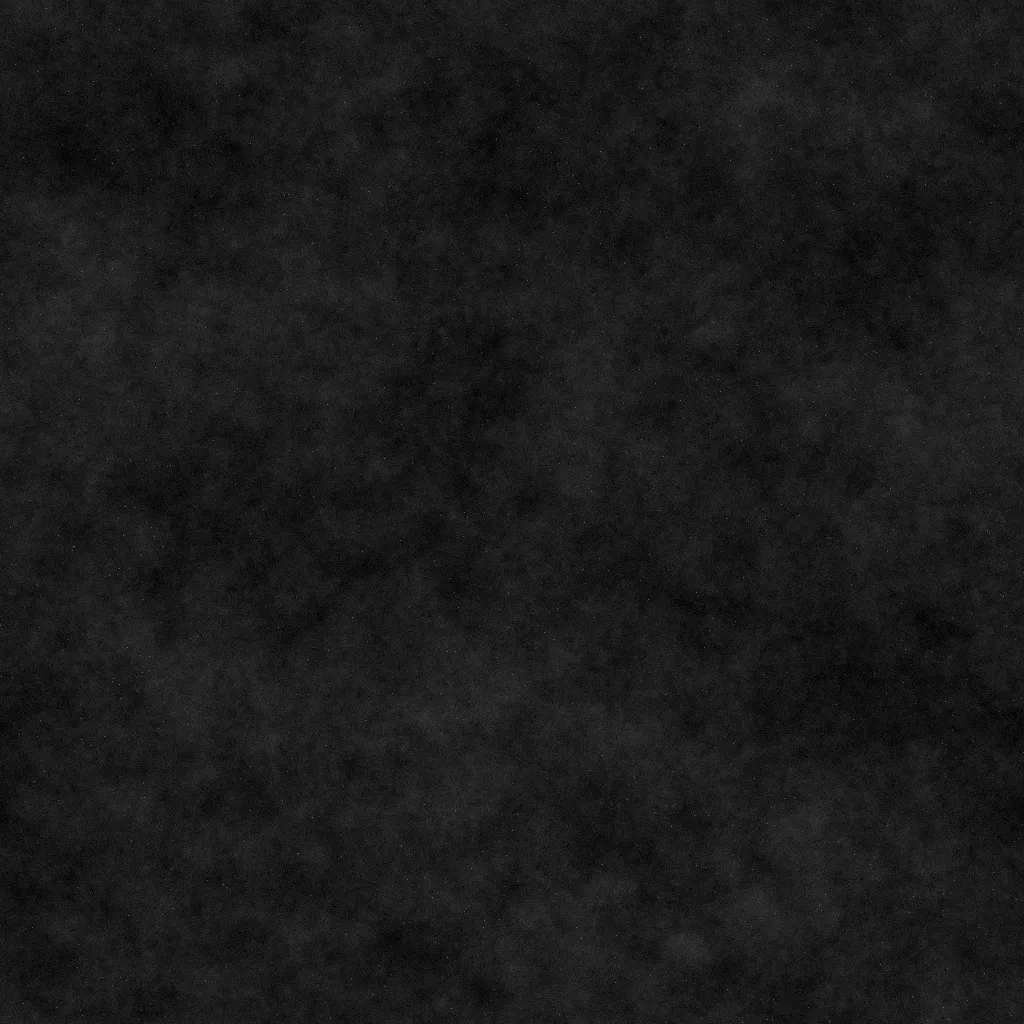
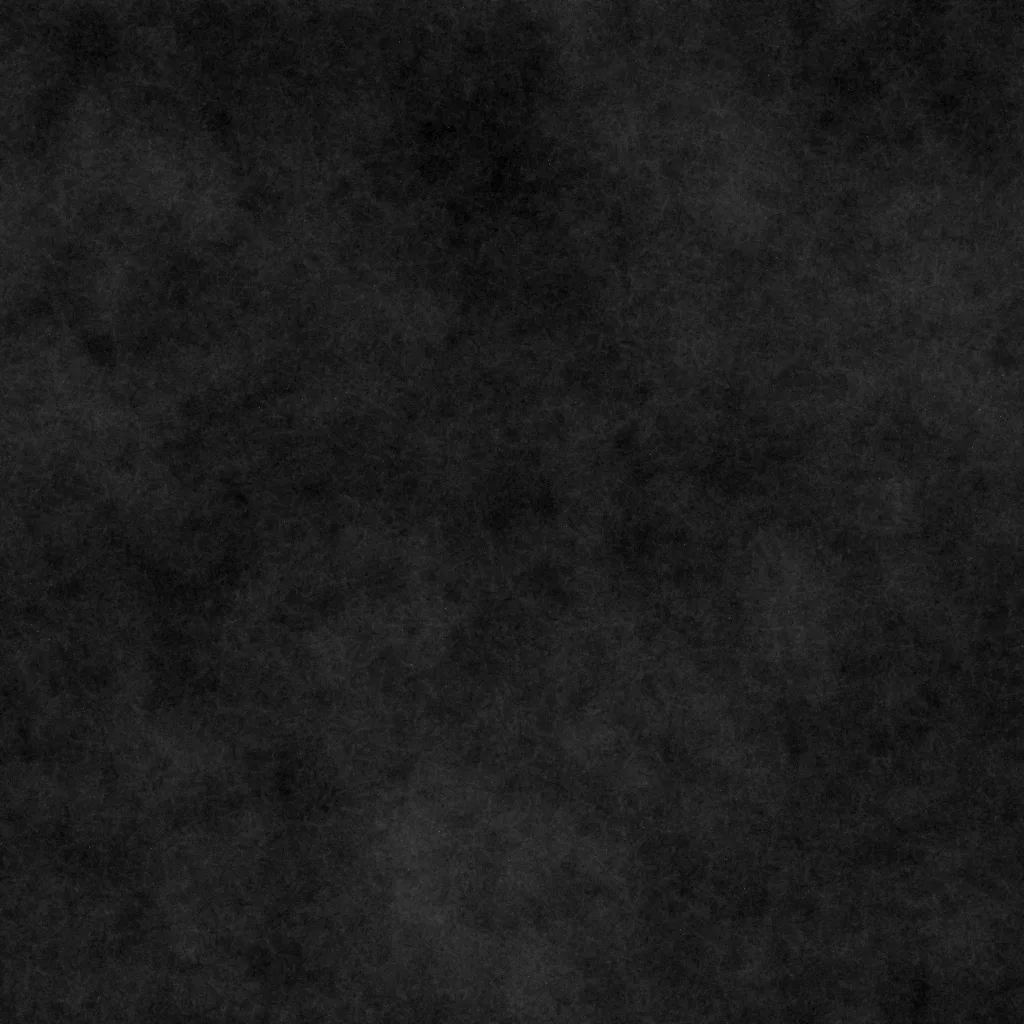
Calculator, formats, FAQ and contact: texture only, the soft fibrous dark paper of the dc.prod hero, continuous across the four blocks; drafting lines removed
Claude-Session: https://claude.ai/code/session_01N1nc6ouW84qajyg49bqDd5

diff --git a/src/app/home-v2.css b/src/app/home-v2.css
@@ -1104,9 +1104,8 @@ body.lead-open .uwy,body.lead-open .userway_buttons_wrapper,body.lead-open .chw,
 @media(max-width:700px){.fmt-card.is-pop{transform:none}.fmt-card.is-pop:hover{transform:none}}
 @media(prefers-reduced-motion:reduce){.fmt-card.is-pop{animation:none}}
 
-/* Paper run: calculator, formats, FAQ and contact sit on one continuous sheet of dark
-   drafting paper (seamless tile), with one technical drawing of dashed guide lines,
-   construction lines and circles running through all four blocks */
+/* Paper run: calculator, formats, FAQ and contact sit on one continuous sheet of dark,
+   fibrous paper (seamless tile), the texture of the first dc.prod hero */
 .paper-run{position:relative;isolation:isolate;background:url(/background/paper-tile.webp) 0 0/1024px 1024px repeat #1b1b1b}
 .paper-run::before{content:"";position:absolute;inset:0;z-index:0;pointer-events:none;background:radial-gradient(ellipse 120% 60% at 50% 50%,transparent 55%,rgba(0,0,0,.35) 100%)}
 .paper-run>.section.s-paper{background:transparent!important;position:relative;z-index:1}
@@ -1115,15 +1114,3 @@ body.lead-open .uwy,body.lead-open .userway_buttons_wrapper,body.lead-open .chw,
 .s-paper .s-plain-glow{opacity:.3}
 .lead-sec.s-paper .contact-glow{top:300px;opacity:.4}
 .paper-run>.section::before{display:none}
-.paper-draft{position:absolute;inset:0;z-index:0;pointer-events:none;overflow:hidden}
-.paper-draft svg{position:absolute;inset:0;width:100%;height:100%;-webkit-mask-image:linear-gradient(90deg,transparent,#000 18%,#000 82%,transparent);mask-image:linear-gradient(90deg,transparent,#000 18%,#000 82%,transparent)}
-.paper-draft path{fill:none;vector-effect:non-scaling-stroke}
-.pd-dash path{stroke:rgba(244,241,234,.2);stroke-width:1;stroke-dasharray:9 8}
-.pd-thin path{stroke:rgba(244,241,234,.13);stroke-width:1;stroke-dasharray:6 7}
-.pd-c{position:absolute;left:48%;aspect-ratio:1;border-radius:50%;border:1px solid rgba(244,241,234,.15);transform:translate(-50%,-50%)}
-.pd-c.is-dash{border-style:dashed;border-color:rgba(244,241,234,.13)}
-.pd-x{position:absolute;left:48%;width:14px;height:14px;border-radius:50%;border:1px solid rgba(232,168,104,.45);transform:translate(-50%,-50%)}
-.pd-x::before,.pd-x::after{content:"";position:absolute;left:50%;top:50%;background:rgba(232,168,104,.45);transform:translate(-50%,-50%)}
-.pd-x::before{width:26px;height:1px}.pd-x::after{width:1px;height:26px}
-[dir="rtl"] .pd-c,[dir="rtl"] .pd-x{left:52%}
-[dir="rtl"] .paper-draft svg{transform:scaleX(-1)}

diff --git a/src/app/[locale]/page.tsx b/src/app/[locale]/page.tsx
@@ -247,27 +247,8 @@ export default async function Home({
       </section>
 
       {/* ── Budget → leads calculator ── */}
-      {/* calculator → formats → FAQ → contact share one sheet of drafting paper: the lines
-          and circles run through all four blocks like one technical drawing */}
+      {/* calculator → formats → FAQ → contact share one continuous sheet of dark paper */}
       <div className="paper-run">
-        <div className="paper-draft" aria-hidden="true">
-          <svg viewBox="0 0 100 1000" preserveAspectRatio="none">
-            <g className="pd-dash">
-              <path d="M48 0V1000" />
-              <path d="M0 250H100M0 262H100M0 742H100M0 754H100" />
-            </g>
-            <g className="pd-thin">
-              <path d="M0 40L48 256L100 40M0 256L48 505L100 256M0 505L48 748L100 505M0 748L48 960L100 748" />
-            </g>
-          </svg>
-          <i className="pd-c" style={{ top: "12%", width: "62vw" }} />
-          <i className="pd-c is-dash" style={{ top: "25.6%", width: "118vw" }} />
-          <i className="pd-c" style={{ top: "50.5%", width: "84vw" }} />
-          <i className="pd-c is-dash" style={{ top: "62%", width: "46vw" }} />
-          <i className="pd-c" style={{ top: "74.8%", width: "128vw" }} />
-          <i className="pd-c is-dash" style={{ top: "93%", width: "70vw" }} />
-          {["9.6%", "25%", "50.5%", "74.2%", "93%"].map((t) => <b key={t} className="pd-x" style={{ top: t }} />)}
-        </div>
       <section className="section s-plain s-paper calc-sec" id="calculator">
         <div className="s-plain-glow" aria-hidden="true" />
         <div className="wrap">
